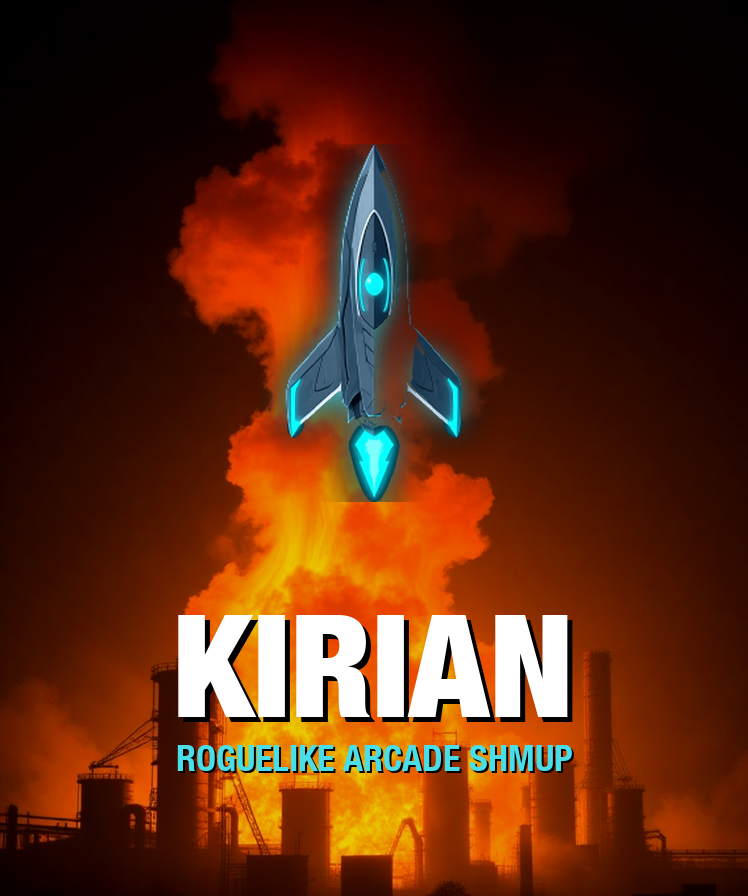
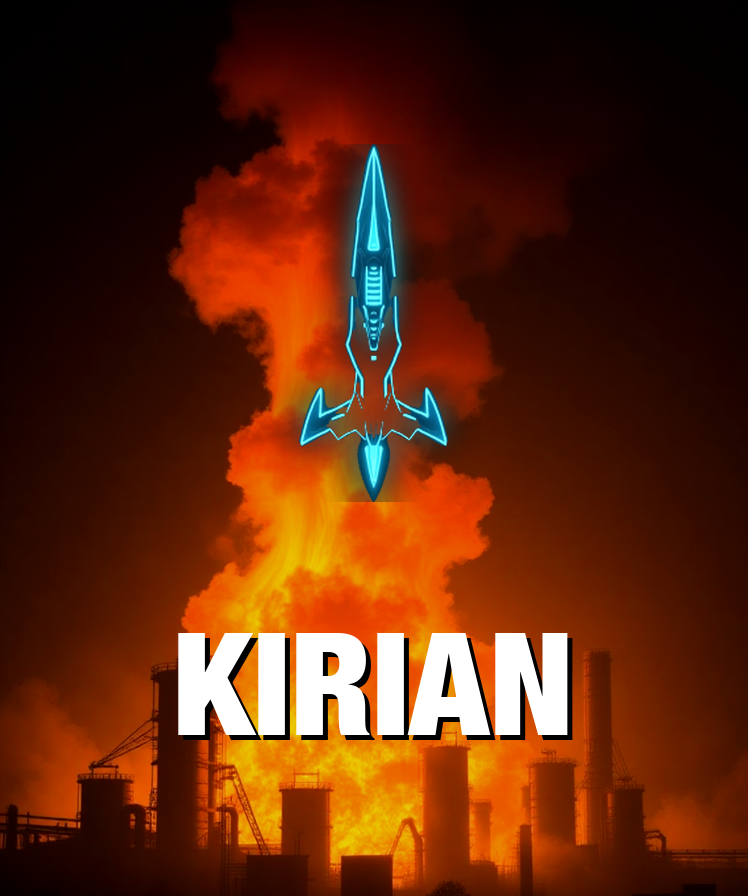
Steam capsules: wordmark only, no subtitle
Steam's asset rules allow only the game's title on capsule art; the
first store review rejected every capsule over the
"ROGUELIKE ARCADE SHMUP" subtitle. Drop it from all layouts and the
library logo and regenerate the set.

Claude-Session: https://claude.ai/code/session_01RgN3TYf7c3b3W41rC5muAY

Changed region(s): [[0.2152, 0.6875, 0.7687, 0.875], [0.3382, 0.1562, 0.6457, 0.5625]]

diff --git a/store/steam/make_capsules.py b/store/steam/make_capsules.py
@@ -25,11 +25,12 @@ SHIP = ROOT / 'tyrian_mobile/assets/skins/default/sprites/falcon1.png'
 
 FONT = '/System/Library/Fonts/HelveticaNeue.ttc'
 FACE_BLACK = 9   # Condensed Black — the wordmark
-FACE_BOLD = 4    # Condensed Bold — the subtitle
 
 CYAN = (74, 222, 232)
+# The wordmark is the only type allowed on capsules: Steam's asset rules reject
+# any other text (taglines, genre, URLs), and the first review did exactly that
+# over a "ROGUELIKE ARCADE SHMUP" subtitle. Keep the copy on the store page.
 WORDMARK = 'KIRIAN'
-SUBTITLE = 'ROGUELIKE ARCADE SHMUP'
 
 # name: (w, h, plate, layout)
 TARGETS = [
@@ -117,10 +118,8 @@ def build(name, w, h, plate_img, layout):
     if layout == 'hero_left':
         s = ship(round(h * 0.62))
         place(s, 0.83, 0.47)
-        text(d, (round(w * 0.06), round(h * 0.56)), WORDMARK,
+        text(d, (round(w * 0.06), round(h * 0.60)), WORDMARK,
              round(h * 0.30), FACE_BLACK, (255, 255, 255, 255))
-        text(d, (round(w * 0.065), round(h * 0.70)), SUBTITLE,
-             round(h * 0.075), FACE_BOLD, CYAN + (255,))
 
     elif layout == 'wordmark_only':
         s = ship(round(h * 0.72))
@@ -131,10 +130,8 @@ def build(name, w, h, plate_img, layout):
     elif layout == 'stacked':
         s = ship(round(h * 0.40))
         place(s, 0.5, 0.36)
-        text(d, (w // 2, round(h * 0.80)), WORDMARK,
+        text(d, (w // 2, round(h * 0.82)), WORDMARK,
              round(h * 0.16), FACE_BLACK, (255, 255, 255, 255), anchor='ms')
-        text(d, (w // 2, round(h * 0.86)), SUBTITLE,
-             round(h * 0.040), FACE_BOLD, CYAN + (255,), anchor='ms')
 
     elif layout == 'art_only':
         # The hero sits behind Steam's own logo overlay, so it carries no type.
@@ -151,10 +148,8 @@ def logo(w=1280, h=720):
     """Transparent library logo — Steam lays this over the hero itself."""
     im = Image.new('RGBA', (w, h), (0, 0, 0, 0))
     d = ImageDraw.Draw(im)
-    text(d, (w // 2, round(h * 0.56)), WORDMARK,
+    text(d, (w // 2, round(h * 0.62)), WORDMARK,
          round(h * 0.34), FACE_BLACK, (255, 255, 255, 255), anchor='ms')
-    text(d, (w // 2, round(h * 0.68)), SUBTITLE,
-         round(h * 0.075), FACE_BOLD, CYAN + (255,), anchor='ms')
     return im
 
 
